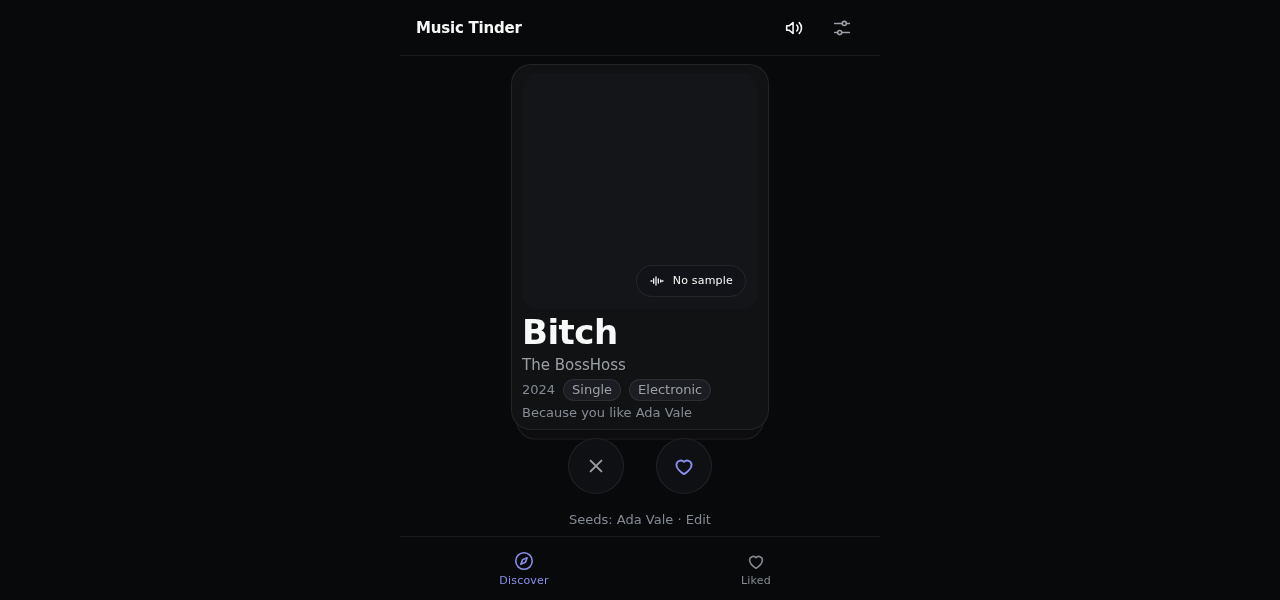
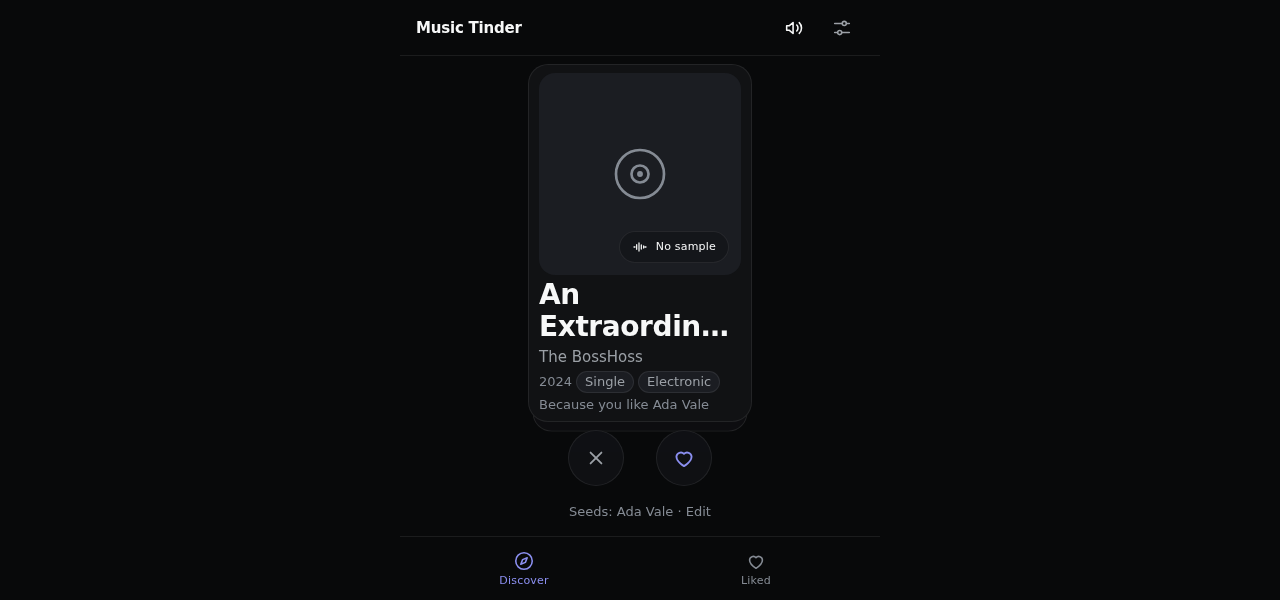
Keep the deck controls clear when the album meta wraps or the because line is long
Live catalog data exposed two height cases the fixture pins missed at
1280x600: a year + release type + the longest genre tag wrap the meta row to
two lines, and a long 'Because you like X' line wraps too. Below 620px tall the
deck budget now reserves the second meta row (and the compact meta gap is 4px),
and the provenance line stays on one line with an ellipsis. The long-title
fixture uses the longest genre label so the e2e pin covers the wrapped meta.

Adds browser screenshots of every changed screen at 1280 and 390.

diff --git a/e2e/fixtures.ts b/e2e/fixtures.ts
@@ -410,7 +410,9 @@ export async function mockLongAlbumTitles(page: Page): Promise<void> {
             collectionName: `An Extraordinarily Long Album Title Number ${artistId} - Single`,
             artistId,
             artistName: 'The BossHoss',
-            primaryGenreName: 'Country',
+            // The longest curated genre label: forces the meta row to budget
+            // its second line on very short viewports.
+            primaryGenreName: 'Singer-songwriter',
             releaseDate: '2024-04-05T00:00:00Z',
             collectionViewUrl: `https://music.apple.com/album/${artistId * 10 + 1}`,
           },

diff --git a/src/ui/screens/discovery.css b/src/ui/screens/discovery.css
@@ -60,6 +60,24 @@
     gap: var(--space-1);
     padding: var(--space-2) 10px;
   }
+
+  .card__meta {
+    gap: var(--space-1);
+  }
+}
+
+/* Very short windows: at these widths a year + release type + the longest
+   genre tag no longer fit on one meta row, so the budget reserves the second
+   row instead of letting it push the buttons under the tab bar. */
+@media (max-height: 620px) {
+  .deck,
+  .deck-loading {
+    --deck-max: min(100%, max(200px, calc(100svh - 376px)));
+  }
+
+  .deck:has(> .deck-notice) .deck__stack {
+    max-width: min(100%, max(200px, calc(100svh - 440px)));
+  }
 }
 
 .deck__current {

diff --git a/src/ui/app.css b/src/ui/app.css
@@ -775,11 +775,16 @@ button {
   font-weight: var(--text-meta-weight);
 }
 
+/* One line: a long seed name truncates instead of growing the card and
+   pushing the like/skip controls toward the tab bar. */
 .card__because {
   margin: 0;
+  overflow: hidden;
   color: var(--text-tertiary);
   font-size: var(--text-meta-size);
   line-height: var(--text-meta-line);
+  white-space: nowrap;
+  text-overflow: ellipsis;
 }
 
 /* Settings sheet */

diff --git a/docs/DESIGN.md b/docs/DESIGN.md
@@ -84,9 +84,12 @@ pairs, switched live by `ui/theme.ts` when the user overrides.
   bar. At viewport heights ≤ 840 px a compact density budgets
   `calc(100svh - 342px)`: 8 px main top padding, 4 px deck gap, 4 px stack
   margin, and a card with 10 px sides, 8 px top and bottom and 4 px row gaps.
-  That keeps the card large (≈378 px at 1280 × 720) while a two-line title still
+  That keeps the card large (≈376 px at 1280 × 720) while a two-line title still
   leaves the buttons visible; above 840 px the full-width card has room for the
-  untrimmed card.
+  untrimmed card. Below 620 px the budget tightens once more
+  (`calc(100svh - 376px)`) because a year + release type + the longest genre tag
+  wrap to a second meta row there; the compact mode also tightens the meta row
+  gap to 4 px.
 - One screen visible at a time; two-tab bottom bar (Discover, Liked) in `--bg-glass`.
   Settings is a sheet reachable from the header only. Content never sits under chrome:
   pad with the nav's height. Setup belongs to the Discover tab: while the user
@@ -106,7 +109,8 @@ pairs, switched live by `ui/theme.ts` when the user overrides.
   or the Deezer album count when the artist has only one genre, so a genre is
   never printed twice), year + album release type + ≤ 2 chips (`text-meta`;
   Apple's ` - Single` / ` - EP` suffix is stripped from the title and becomes the
-  release-type tag), the quiet `because you like X` line in
+  release-type tag), the quiet `because you like X` line on one line (ellipsis
+  when it does not fit) in
   `--text-tertiary`. Play/pause as a 48 px glass circle overlapping the artwork's
   lower-right corner; sound state shown by icon **and** a 2 px progress ring around
   the circle (`--text-primary` at 0.9 over the glass, hairline track), never colour
